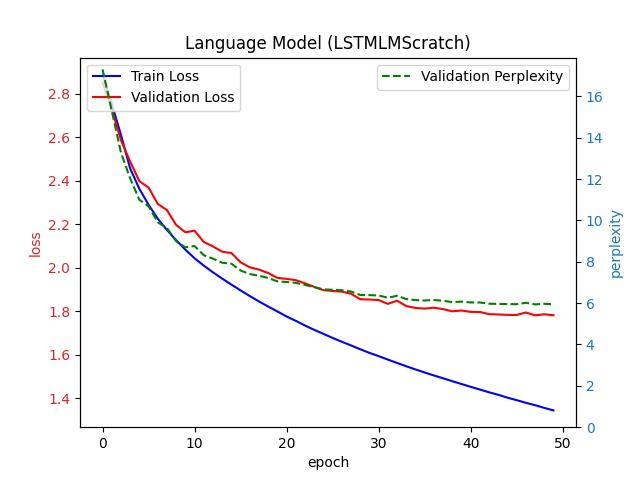
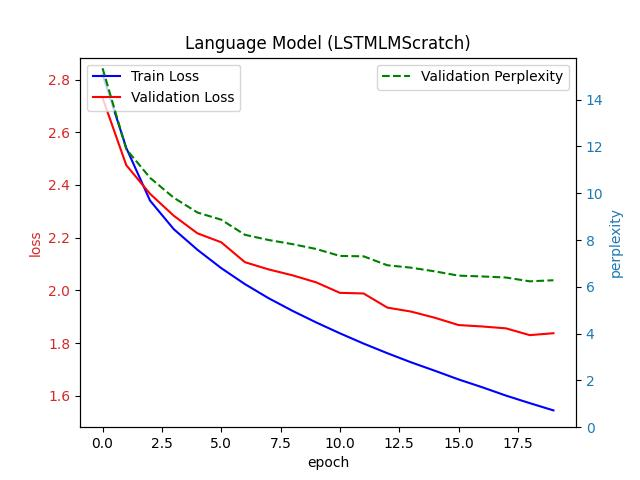
bugfix[ch10] Correct module hierarchy for gradient clipping

diff --git a/chapter-10_modern-recurrent-neural-networks/lstm_scratch/lstm_scratch.py b/chapter-10_modern-recurrent-neural-networks/lstm_scratch/lstm_scratch.py
@@ -386,7 +386,6 @@ class LSTMLMScratch(nn.Module):
 
         # The memory cell
         self._mem_cell = MemoryCell(vocab, num_hidden_units)
-        self.add_module('memory_cell', self._mem_cell)
 
         # Parameters of the output layer
         self._W_o = nn.Parameter(
@@ -427,7 +426,7 @@ class LSTMLMScratch(nn.Module):
         Returns the predicted string.
         """
 
-        H, C = None, None # hidden state, cell/internal state
+        C, H = None, None # cell/internal state, hidden state
 
         # Warm up
         for char in prefix[:-1]:
@@ -455,10 +454,9 @@ class LSTMLMScratch(nn.Module):
     def clip_gradients(self) -> None:
         total = torch.tensor([0.0], device=device)
         named_params = []
-        for name, param in self.named_parameters(recurse=False):
+        for name, param in self.named_parameters(recurse=True):
             if not param.requires_grad:
                 continue
-
             assert param.grad is not None, f"gradient is None for {name}"
             total += torch.sum(param.grad ** 2)
             named_params.append((name, param))
@@ -693,8 +691,8 @@ def main(
     batch_size = 1024
     num_steps = 32
     num_hidden_units = 256
-    max_epochs = 50
-    learning_rate = 1
+    max_epochs = 20
+    learning_rate = 2.0
     weight_decay = 1e-5
     prefix = "it has"
     num_pred = 20
@@ -715,6 +713,10 @@ def main(
     validator = Validator(model, dataset, loss_measurer)
     plotter = MetricsPlotter()
 
+    logger.info("max_epochs = {}, batch_size = {}, learning_rate = {:.2f}, weight_decay = {:.1e}",
+                max_epochs, batch_size, learning_rate, weight_decay)
+    logger.info("num_hidden_units = {}, num_steps = {}, device = {}",
+                num_hidden_units, num_steps, device)
     for epoch in range(max_epochs):
         train_loss = trainer.fit()
         validate_loss, accuracy, perplexity = validator()
@@ -740,7 +742,7 @@ if __name__ == "__main__":
     main()
 
     # Final output:
-    # epoch #49, train_loss = 1.345, validate_loss = 1.782, accuracy = 48.0%, perplexity = 5.94
-    # device = mps, elapsed time: 534.3 seconds
-    # prediction for 'it has': ' even the sphinx as '
+    # epoch #19, train_loss = 1.545, validate_loss = 1.837, accuracy = 45.3%, perplexity = 6.28
+    # device = cuda, elapsed time: 81.0 seconds
+    # prediction for 'it has': ' i saw the time trav'
     # done!
